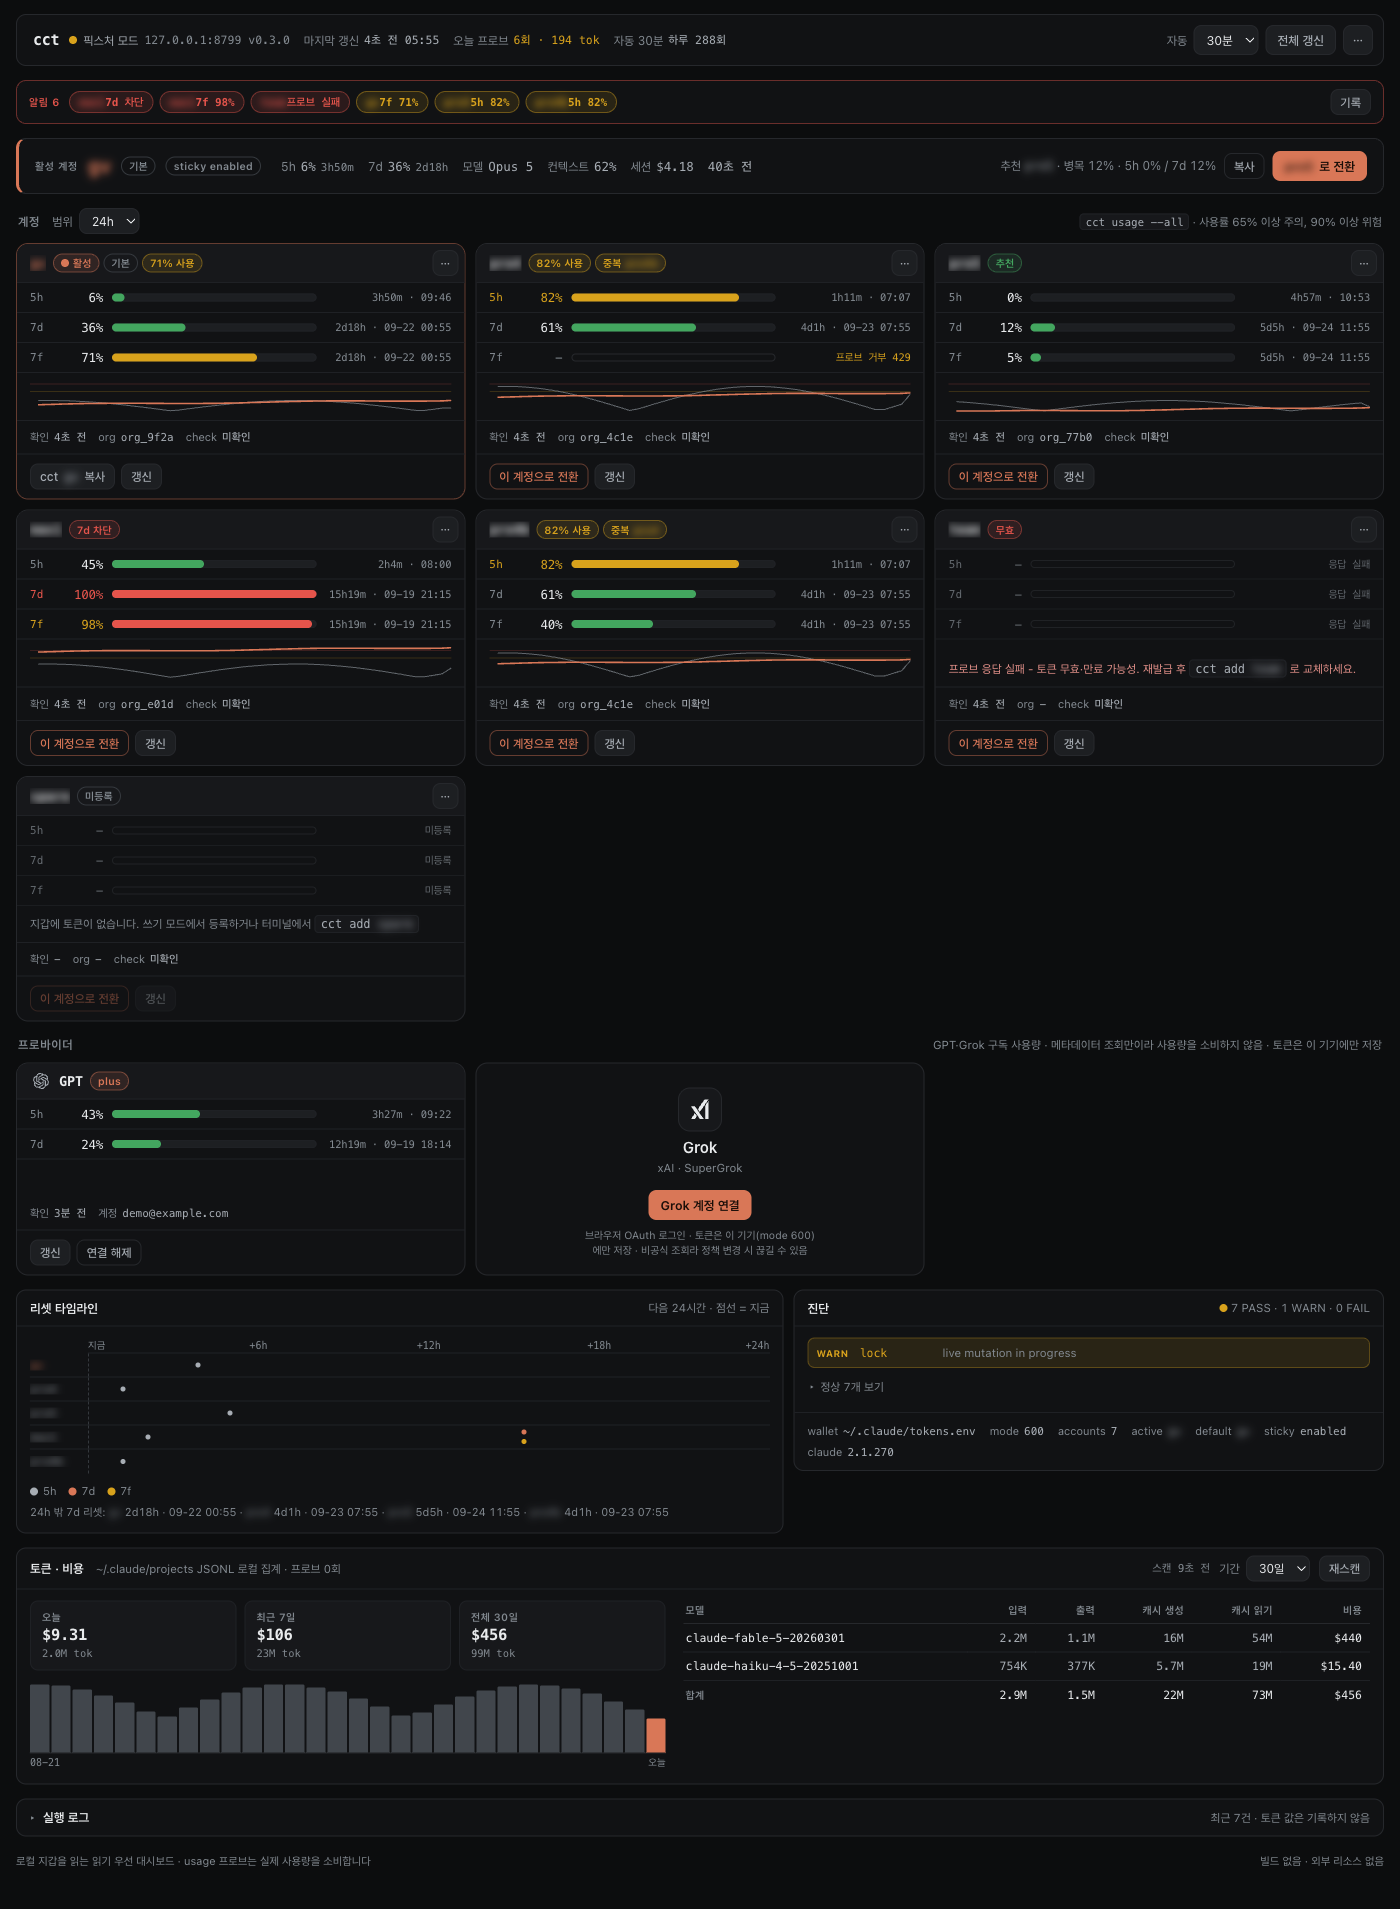
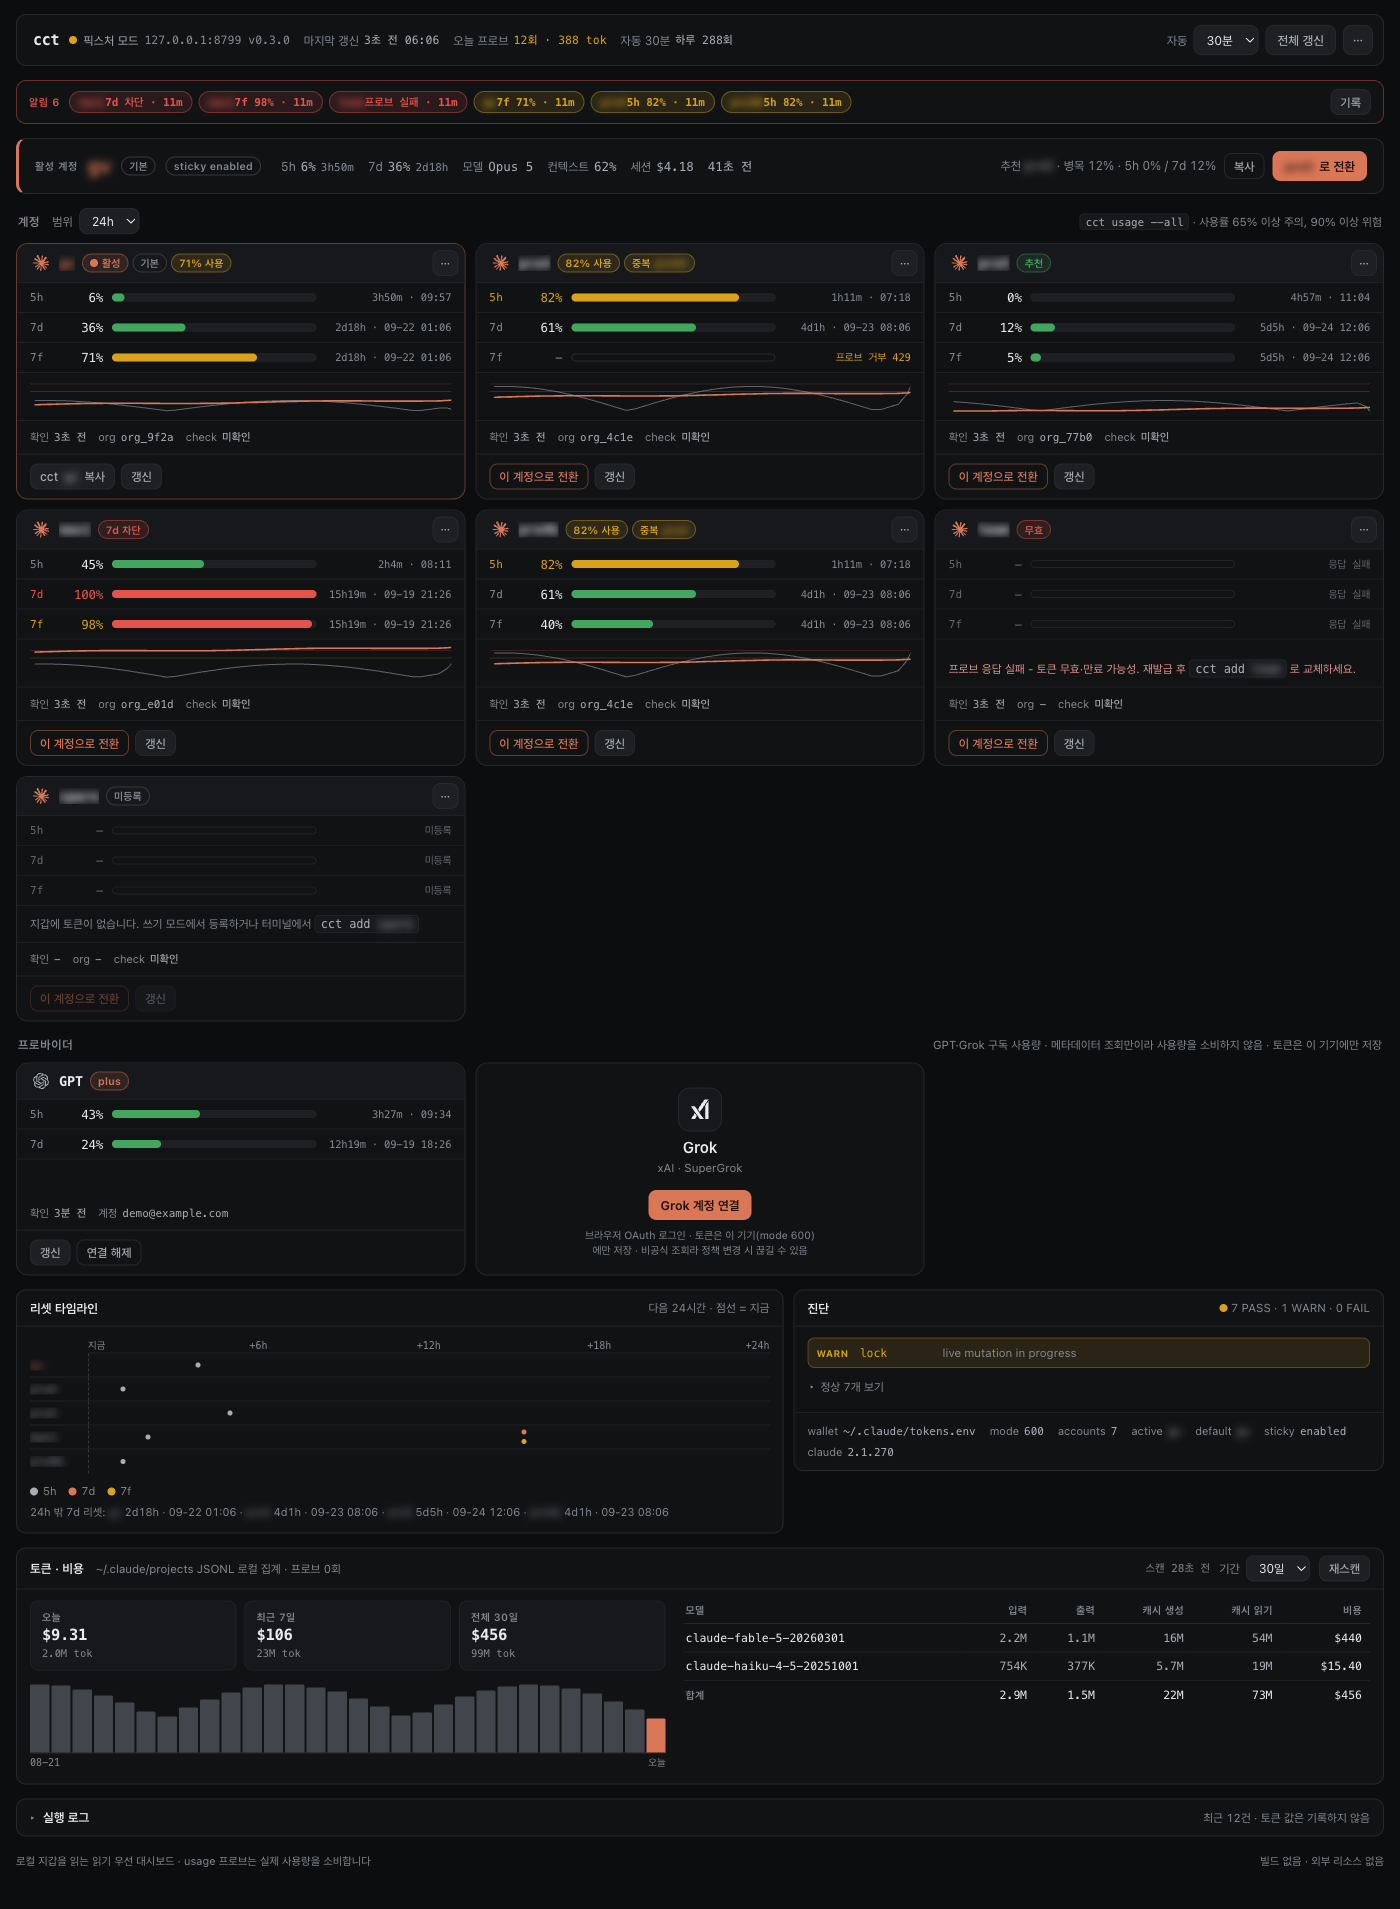
feat(dashboard): 계정 카드에 Claude 로고 추가 (프로바이더 로고와 동일 처리)
모든 Claude 계정 카드 헤더에 프로바이더 카드와 같은 .plogo 인라인 SVG 로
Claude 별문양을 넣는다. 색은 기존 액센트(테라코타)를 쓴다. 스크린샷 3장 재생성.

diff --git a/dashboard/web/app.js b/dashboard/web/app.js
@@ -307,7 +307,7 @@ function accountCard(a, dups, rec){
         : '<button class="btn sm link-accent" data-act="use" data-l="'+esc(a.label)+'"'+dis+'>이 계정으로 전환</button>')
     + '<button class="btn sm" data-act="usage" data-l="'+esc(a.label)+'"'+dis+' title="cct usage - 실프로브라 사용량을 소비합니다">갱신</button>'
     + '</div>';
-  return '<article class="'+cls+'"><div class="ac-head"><span class="lbl" title="'+esc(a.label)+'">'+esc(a.label)+'</span>'
+  return '<article class="'+cls+'"><div class="ac-head">'+provLogo('claude')+'<span class="lbl" title="'+esc(a.label)+'">'+esc(a.label)+'</span>'
     + '<span class="ac-badges">'+badges+'</span>'+cardMenu(a)+'</div>'
     + '<div class="ac-metrics">'+body+'</div>'+sparkline(a.label)+note+meta+act+'</article>';
 }
@@ -336,6 +336,7 @@ function renderCards(){
 // ── 프로바이더(GPT·Grok) - OAuth 온보딩 카드 + 사용률 미터 ───────────
 // 사용량 조회는 메타데이터 GET 이라 소비 0. 로고는 인라인 SVG(외부 리소스 없음).
 var PROV_LOGOS = {
+  claude: '<svg viewBox="0 0 24 24" fill="currentColor" aria-hidden="true"><path d="M4.709 15.955l4.72-2.647.08-.23-.08-.128H9.2l-.79-.048-2.698-.073-2.339-.097-2.266-.122-.571-.121L0 11.784l.055-.352.48-.321.686.06 1.52.103 2.278.158 1.652.097 2.449.255h.389l.055-.157-.134-.098-.103-.097-2.358-1.596-2.552-1.688-1.336-.972-.724-.491-.364-.462-.158-1.008.656-.722.881.06.225.061.893.686 1.908 1.476 2.491 1.833.365.304.145-.103.019-.073-.164-.274-1.355-2.446-1.446-2.49-.644-1.032-.17-.619a2.97 2.97 0 01-.104-.729L6.283.134 6.696 0l.996.134.42.364.62 1.414 1.002 2.229 1.555 3.03.456.898.243.832.091.255h.158V9.01l.128-1.706.237-2.095.23-2.695.08-.76.376-.91.747-.492.583.28.48.685-.067.444-.286 1.851-.559 2.903-.364 1.942h.212l.243-.242.985-1.306 1.652-2.064.73-.82.85-.904.547-.431h1.033l.76 1.129-.34 1.166-1.064 1.347-.881 1.142-1.264 1.7-.79 1.36.073.11.188-.02 2.856-.606 1.543-.28 1.841-.315.833.388.091.395-.328.807-1.969.486-2.309.462-3.439.813-.042.03.049.061 1.549.146.662.036h1.622l3.02.225.79.522.474.638-.079.485-1.215.62-1.64-.389-3.829-.91-1.312-.329h-.182v.11l1.093 1.068 2.006 1.81 2.509 2.33.127.578-.322.455-.34-.049-2.205-1.657-.851-.747-1.926-1.62h-.128v.17l.444.649 2.345 3.521.122 1.08-.17.353-.608.213-.668-.122-1.374-1.925-1.415-2.167-1.143-1.943-.14.08-.674 7.254-.316.37-.729.28-.607-.461-.322-.747.322-1.476.389-1.924.315-1.53.286-1.9.17-.632-.012-.042-.14.018-1.434 1.967-2.18 2.945-1.726 1.845-.414.164-.717-.37.067-.662.401-.589 2.388-3.036 1.44-1.882.93-1.086-.006-.158h-.055L4.132 18.56l-1.13.146-.487-.456.061-.746.231-.243 1.908-1.312-.006.006z"/></svg>',
   openai: '<svg viewBox="0 0 24 24" fill="currentColor" aria-hidden="true"><path d="M22.2819 9.8211a5.9847 5.9847 0 0 0-.5157-4.9108 6.0462 6.0462 0 0 0-6.5098-2.9A6.0651 6.0651 0 0 0 4.9807 4.1818a5.9847 5.9847 0 0 0-3.9977 2.9 6.0462 6.0462 0 0 0 .7427 7.0966 5.98 5.98 0 0 0 .511 4.9107 6.051 6.051 0 0 0 6.5146 2.9001A5.9847 5.9847 0 0 0 13.2599 24a6.0557 6.0557 0 0 0 5.7718-4.2058 5.9894 5.9894 0 0 0 3.9977-2.9001 6.0557 6.0557 0 0 0-.7475-7.0729zm-9.022 12.6081a4.4755 4.4755 0 0 1-2.8764-1.0408l.1419-.0804 4.7783-2.7582a.7948.7948 0 0 0 .3927-.6813v-6.7369l2.02 1.1686a.071.071 0 0 1 .038.052v5.5826a4.504 4.504 0 0 1-4.4945 4.4944zm-9.6607-4.1254a4.4708 4.4708 0 0 1-.5346-3.0137l.142.0852 4.783 2.7582a.7712.7712 0 0 0 .7806 0l5.8428-3.3685v2.3324a.0804.0804 0 0 1-.0332.0615L9.74 19.9502a4.4992 4.4992 0 0 1-6.1408-1.6464zM2.3408 7.8956a4.485 4.485 0 0 1 2.3655-1.9728V11.6a.7664.7664 0 0 0 .3879.6765l5.8144 3.3543-2.0201 1.1685a.0757.0757 0 0 1-.071 0l-4.8303-2.7865A4.504 4.504 0 0 1 2.3408 7.8956zm16.5963 3.8558L13.1038 8.364 15.1192 7.2a.0757.0757 0 0 1 .071 0l4.8303 2.7913a4.4944 4.4944 0 0 1-.6765 8.1042v-5.6772a.79.79 0 0 0-.407-.667zm2.0107-3.0231l-.142-.0852-4.7735-2.7818a.7759.7759 0 0 0-.7854 0L9.409 9.2297V6.8974a.0662.0662 0 0 1 .0284-.0615l4.8303-2.7866a4.4992 4.4992 0 0 1 6.6802 4.66zM8.3065 12.863l-2.02-1.1638a.0804.0804 0 0 1-.038-.0567V6.0742a4.4992 4.4992 0 0 1 7.3757-3.4537l-.142.0805L8.704 5.459a.7948.7948 0 0 0-.3927.6813zm1.0976-2.3654l2.602-1.4998 2.6069 1.4998v2.9994l-2.5974 1.4997-2.6067-1.4997z"/></svg>',
   xai: '<svg viewBox="0 0 24 24" fill="currentColor" aria-hidden="true"><path d="m3.005 8.858 8.783 12.544h3.904L6.908 8.858zM6.905 15.825 3 21.402h3.907l1.951-2.788zM16.585 2l-6.75 9.64 1.953 2.79L20.492 2zM17.292 7.965v13.437h3.2V3.395z"/></svg>'
 };

diff --git a/dashboard/web/app.css b/dashboard/web/app.css
@@ -340,6 +340,7 @@ footer{display:flex;flex-wrap:wrap;gap:5px 16px;justify-content:space-between;pa
 /* ── 프로바이더(GPT·Grok) 카드 - 계정 카드와 같은 골격, 온보딩만 전용 레이아웃 ── */
 .plogo{display:inline-flex;align-items:center;justify-content:center;width:22px;height:22px;color:var(--fg-2);flex:none}
 .plogo svg{width:16px;height:16px}
+.plogo.p-claude{color:var(--accent)}
 .prov .ac-head .lbl{max-width:16ch}
 .prov-join{display:flex;flex-direction:column;align-items:center;text-align:center;gap:7px;padding:24px 18px 16px}
 .prov-join .plogo{width:44px;height:44px;border-radius:12px;background:var(--surface-2);border:1px solid var(--line);color:var(--fg)}
